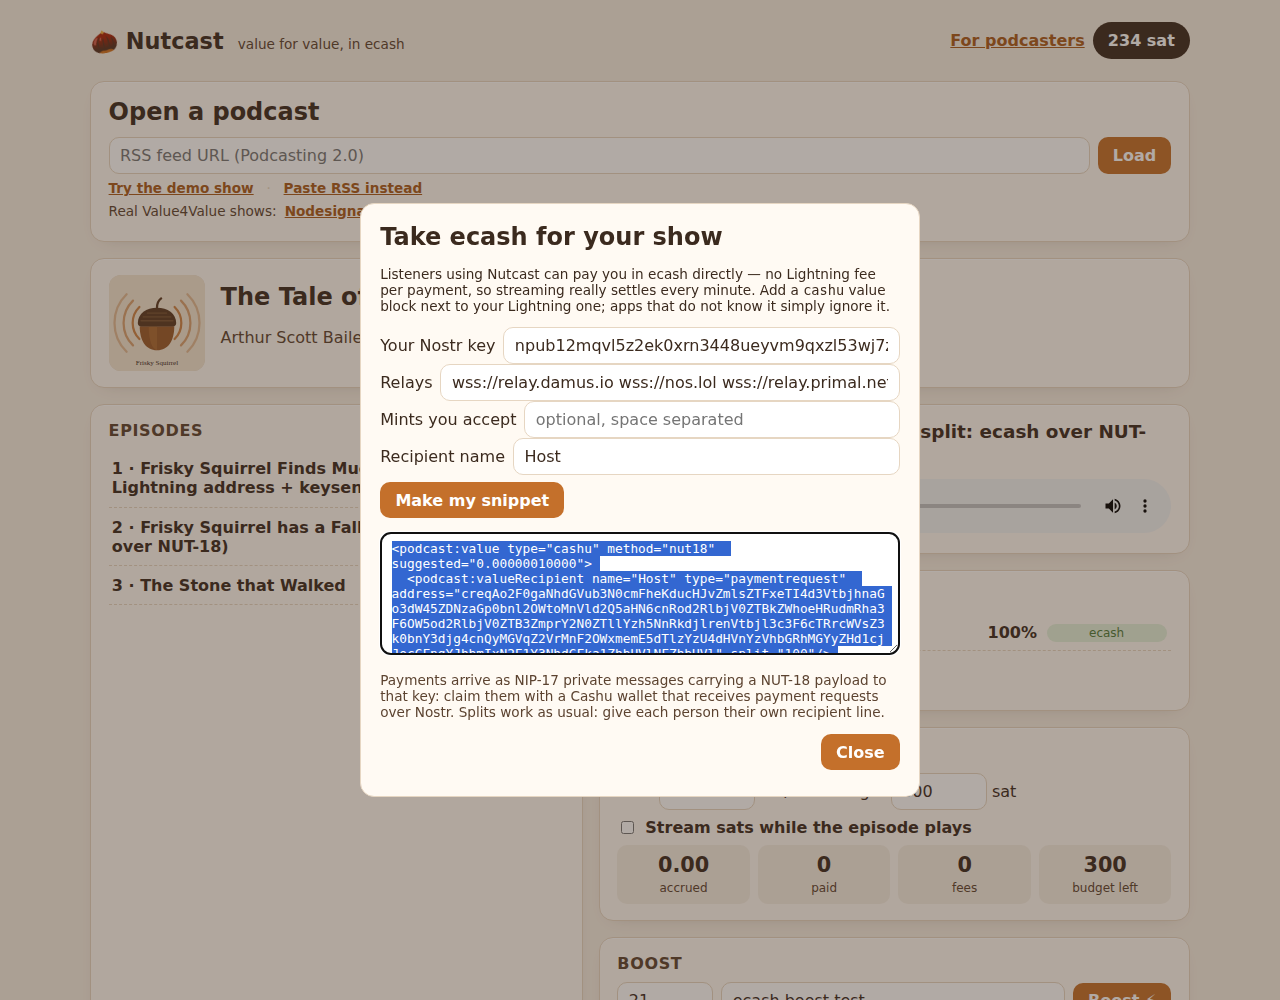
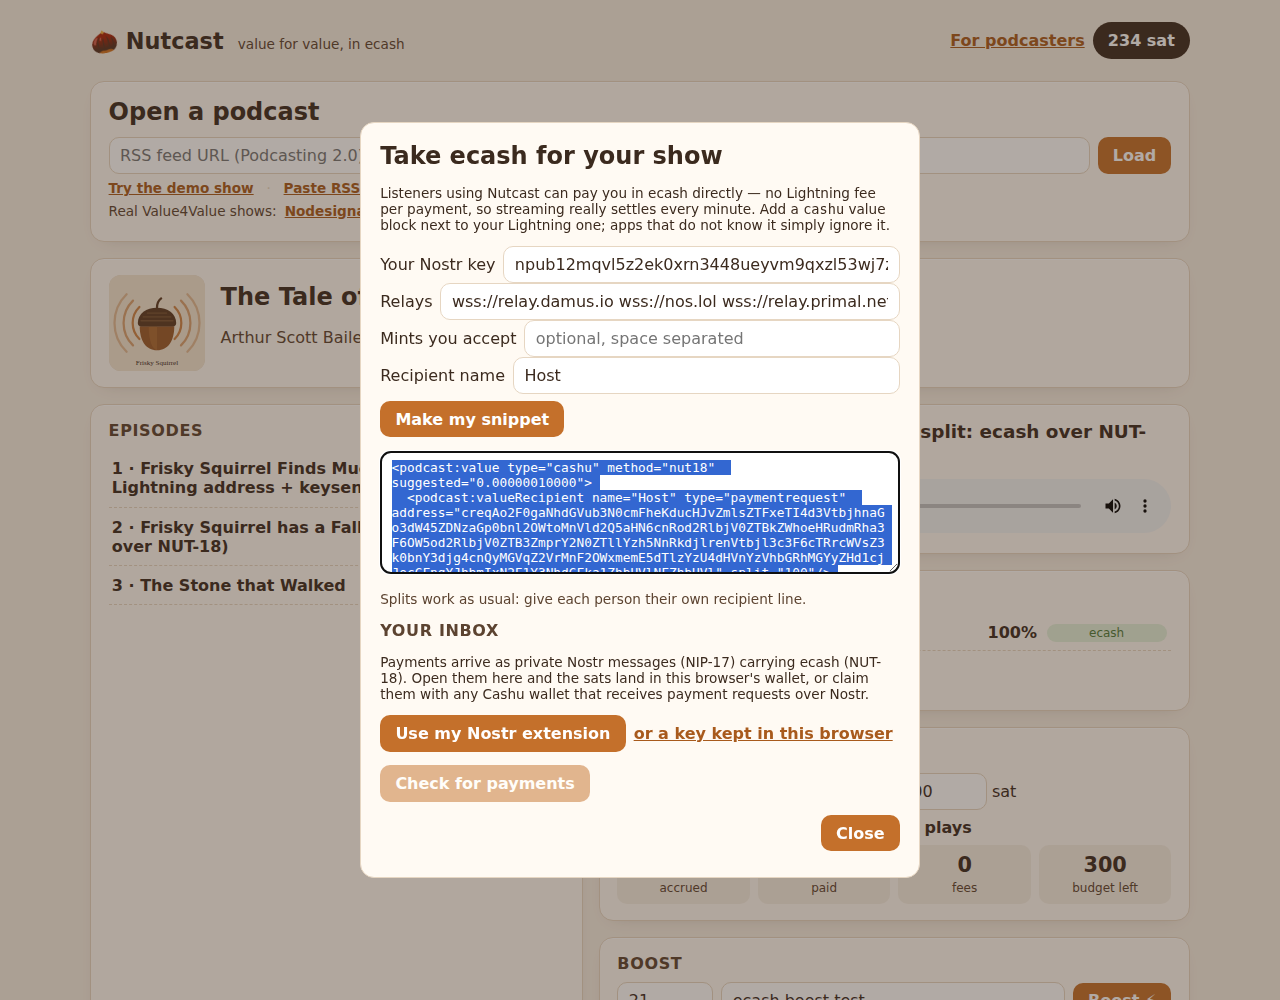
Podcaster inbox: open NIP-17 gift wraps carrying NUT-18 ecash and receive them in the page (NIP-07 or a local key); headless check of the full loop

Changed region(s): [[0.2812, 0.124, 0.7188, 0.899]]

diff --git a/src/core/inbox.ts b/src/core/inbox.ts
@@ -1,0 +1,98 @@
+// The receiving side of NUT-18 over Nostr: find NIP-17 gift wraps addressed to the podcaster,
+// open them (wrap -> seal -> rumor) and read the ecash payment inside.
+// Decryption goes through a Signer, so the key can stay in a NIP-07 extension.
+import { getEncodedToken, type Proof } from '@cashu/cashu-ts';
+import { SimplePool, generateSecretKey, getPublicKey, nip44, verifyEvent, type Event } from 'nostr-tools';
+import { FALLBACK_RELAYS } from './nostr';
+
+export interface Signer {
+  getPublicKey(): Promise<string>;
+  nip44Decrypt(peer: string, ciphertext: string): Promise<string>;
+}
+
+/** A key kept by the page itself (hex secret). */
+export function localSigner(skHex: string): Signer {
+  const sk = Uint8Array.from(skHex.match(/../g)!.map((h) => parseInt(h, 16)));
+  return {
+    getPublicKey: async () => getPublicKey(sk),
+    nip44Decrypt: async (peer, ct) => nip44.v2.decrypt(ct, nip44.v2.utils.getConversationKey(sk, peer)),
+  };
+}
+
+export function newLocalKey(): string {
+  return [...generateSecretKey()].map((b) => b.toString(16).padStart(2, '0')).join('');
+}
+
+interface Nip07 {
+  getPublicKey(): Promise<string>;
+  nip44?: { decrypt(peer: string, ciphertext: string): Promise<string> };
+}
+
+/** A NIP-07 browser extension (Alby, nos2x, …). It must support nip44. */
+export function extensionSigner(ext: Nip07 | undefined): Signer {
+  if (!ext) throw new Error('No Nostr extension found in this browser.');
+  if (!ext.nip44) throw new Error('Your Nostr extension cannot decrypt NIP-44 messages.');
+  return { getPublicKey: () => ext.getPublicKey(), nip44Decrypt: (p, c) => ext.nip44!.decrypt(p, c) };
+}
+
+export interface IncomingPayment {
+  wrapId: string;
+  at: number; // seconds, from the rumor (the wrap's own time is randomised)
+  sender: string; // the payer's per-payment key
+  mint: string;
+  unit: string;
+  memo?: string;
+  amount: number;
+  proofs: Proof[];
+  token: string; // cashuB… ready to receive
+}
+
+/** Open one gift wrap. Throws if it is not a valid NIP-17 message carrying a NUT-18 payload. */
+export async function openWrap(signer: Signer, wrap: Event): Promise<IncomingPayment> {
+  if (wrap.kind !== 1059) throw new Error('not a gift wrap');
+  const seal = JSON.parse(await signer.nip44Decrypt(wrap.pubkey, wrap.content)) as Event;
+  if (seal.kind !== 13 || !verifyEvent(seal)) throw new Error('bad seal');
+  const rumor = JSON.parse(await signer.nip44Decrypt(seal.pubkey, seal.content));
+  if (rumor.kind !== 14 || rumor.pubkey !== seal.pubkey) throw new Error('bad rumor');
+  const p = JSON.parse(rumor.content);
+  if (!p || typeof p.mint !== 'string' || !Array.isArray(p.proofs) || !p.proofs.length) throw new Error('not an ecash payment');
+  const unit = typeof p.unit === 'string' ? p.unit : 'sat';
+  const memo = typeof p.memo === 'string' ? p.memo : undefined;
+  const proofs = p.proofs as Proof[];
+  return {
+    wrapId: wrap.id,
+    at: Number(rumor.created_at) || wrap.created_at,
+    sender: seal.pubkey,
+    mint: p.mint.replace(/\/+$/, ''),
+    unit,
+    memo,
+    amount: proofs.reduce((s, x) => s + Number(x.amount), 0),
+    proofs,
+    token: getEncodedToken({ mint: p.mint, proofs, unit, memo }),
+  };
+}
+
+/** Fetch gift wraps for the signer's key from `relays` and open those that are ecash payments. */
+export async function fetchPayments(signer: Signer, relays: string[] = FALLBACK_RELAYS, sinceDays = 14): Promise<IncomingPayment[]> {
+  const pk = await signer.getPublicKey();
+  const pool = new SimplePool();
+  try {
+    // NIP-59 randomises the wrap's created_at up to two days into the past, so look back a little further.
+    const since = Math.floor(Date.now() / 1000) - (sinceDays + 2) * 86400;
+    const events = await pool.querySync(relays, { kinds: [1059], '#p': [pk], since }, { maxWait: 6000 });
+    const seen = new Set<string>();
+    const out: IncomingPayment[] = [];
+    for (const e of events) {
+      if (seen.has(e.id)) continue;
+      seen.add(e.id);
+      try {
+        out.push(await openWrap(signer, e));
+      } catch {
+        /* someone else's chat message, or junk: skip */
+      }
+    }
+    return out.sort((a, b) => b.at - a.at);
+  } finally {
+    pool.close(relays);
+  }
+}

diff --git a/src/main.ts b/src/main.ts
@@ -5,6 +5,7 @@ import { walletPayer } from './core/payer';
 import { boost, Streamer, type Settlement } from './core/stream';
 import { chooseBlock, parseFeed, payable, splitAmount, type Episode, type Feed, type ValueBlock } from './core/value';
 import { DEMO_MINT, EcashWallet, type Store } from './core/wallet';
+import { extensionSigner, fetchPayments, localSigner, newLocalKey, type Signer } from './core/inbox';
 
 const $ = <T extends HTMLElement = HTMLElement>(id: string) => document.getElementById(id) as T;
 const store: Store = { get: (k) => localStorage.getItem(k), set: (k, v) => localStorage.setItem(k, v) };
@@ -337,6 +338,74 @@ $('crMake').onclick = () => {
     out.select();
   } catch (e) {
     err.textContent = (e as Error).message;
+  }
+};
+
+// ---------- inbox: ecash paid to the podcaster's request ----------
+let signer: Signer | undefined;
+async function useSigner(sg: Signer, who: string) {
+  signer = sg;
+  const pk = await sg.getPublicKey();
+  ($('crNpub') as HTMLInputElement).value = nip19.npubEncode(pk);
+  $('inWho').textContent = who;
+  ($('inCheck') as HTMLButtonElement).disabled = false;
+}
+$('inExt').onclick = async () => {
+  try {
+    await useSigner(extensionSigner((window as unknown as { nostr?: Parameters<typeof extensionSigner>[0] }).nostr), 'Using your Nostr extension. The key never leaves it.');
+  } catch (e) {
+    $('inWho').textContent = (e as Error).message;
+  }
+};
+$('inLocal').onclick = async () => {
+  let sk = localStorage.getItem('nutcast:inboxKey');
+  if (!sk) localStorage.setItem('nutcast:inboxKey', (sk = newLocalKey()));
+  await useSigner(localSigner(sk), 'Using a key kept in this browser (good for trying; clearing site data loses it, so take your sats out first).');
+};
+const doneKey = 'nutcast:inboxDone';
+const done = new Set<string>(JSON.parse(localStorage.getItem(doneKey) ?? '[]'));
+$('inCheck').onclick = async () => {
+  if (!signer) return;
+  const btn = $('inCheck') as HTMLButtonElement;
+  btn.disabled = true;
+  $('inState').textContent = 'Asking relays…';
+  try {
+    const relays = ($('crRelays') as HTMLInputElement).value.split(/\s+/).filter((r) => /^wss?:\/\//.test(r));
+    const pays = await fetchPayments(signer, relays.length ? relays : undefined);
+    let got = 0;
+    for (const p of pays) {
+      let status: string;
+      let ok = true;
+      if (done.has(p.wrapId)) status = 'already received';
+      else {
+        try {
+          // ecash is received at the mint it came from; each mint has its own balance here
+          const w = p.mint === mintUrl ? wallet : new EcashWallet(p.mint, store);
+          const n = await w.receive(p.token);
+          got += p.mint === mintUrl ? n : 0;
+          status = `+${n} sat` + (p.mint === mintUrl ? '' : ` at ${new URL(p.mint).host}`);
+          done.add(p.wrapId);
+        } catch (e) {
+          ok = false;
+          const msg = (e as Error).message;
+          status = msg.slice(0, 80);
+          // spent proofs will never be received; anything else (network, mint down) is worth another try
+          if (/spent/i.test(msg)) done.add(p.wrapId);
+          else status += ' (will retry)';
+        }
+      }
+      $('inList').prepend(el('li', { className: ok ? 'ok' : 'bad' },
+        el('span', { textContent: new Date(p.at * 1000).toLocaleDateString() }),
+        el('span', { textContent: `${p.amount} sat${p.memo ? ' · ' + p.memo : ''}` }),
+        el('span', { textContent: status })));
+    }
+    localStorage.setItem(doneKey, JSON.stringify([...done]));
+    $('inState').textContent = pays.length ? `${pays.length} payment(s) found.` + (got ? ` ${got} sat added to your wallet.` : '') : 'No payments yet.';
+    refreshBalance();
+  } catch (e) {
+    $('inState').textContent = (e as Error).message;
+  } finally {
+    btn.disabled = false;
   }
 };
 

diff --git a/test/inbox.test.ts b/test/inbox.test.ts
@@ -1,0 +1,34 @@
+import { describe, expect, it } from 'vitest';
+import { generateSecretKey, getPublicKey, nip17 } from 'nostr-tools';
+import { localSigner, newLocalKey, openWrap } from '../src/core/inbox';
+
+const proofs = [
+  { id: '009a1f293253e41e', amount: 16, secret: 's1', C: '02' + 'a'.repeat(64) },
+  { id: '009a1f293253e41e', amount: 4, secret: 's2', C: '02' + 'b'.repeat(64) },
+];
+
+describe('inbox', () => {
+  const skHex = newLocalKey();
+  const signer = localSigner(skHex);
+
+  it('opens a NUT-18 payment sent as a NIP-17 message', async () => {
+    const pk = await signer.getPublicKey();
+    const payer = generateSecretKey();
+    const payload = JSON.stringify({ id: 'r1', memo: 'great show', mint: 'https://testnut.cashu.space/', unit: 'sat', proofs });
+    const wrap = nip17.wrapEvent(payer, { publicKey: pk }, payload);
+    const got = await openWrap(signer, wrap);
+    expect(got.amount).toBe(20);
+    expect(got.memo).toBe('great show');
+    expect(got.mint).toBe('https://testnut.cashu.space');
+    expect(got.sender).toBe(getPublicKey(payer));
+    expect(got.token).toMatch(/^cashuB/);
+  });
+
+  it('skips chat messages and wraps for someone else', async () => {
+    const pk = await signer.getPublicKey();
+    const chat = nip17.wrapEvent(generateSecretKey(), { publicKey: pk }, 'hello there');
+    await expect(openWrap(signer, chat)).rejects.toThrow();
+    const other = nip17.wrapEvent(generateSecretKey(), { publicKey: getPublicKey(generateSecretKey()) }, JSON.stringify({ mint: 'https://m', proofs }));
+    await expect(openWrap(signer, other)).rejects.toThrow();
+  });
+});

diff --git a/index.html b/index.html
@@ -134,8 +134,16 @@
       <div class="row"><button id="crMake" type="button">Make my snippet</button></div>
       <p id="crErr" class="error small"></p>
       <textarea id="crOut" rows="7" readonly class="hidden"></textarea>
-      <p class="muted small">Payments arrive as NIP-17 private messages carrying a NUT-18 payload to that key: claim them with a Cashu wallet that receives payment requests over Nostr.
-        Splits work as usual: give each person their own recipient line.</p>
+      <p class="muted small">Splits work as usual: give each person their own recipient line.</p>
+
+      <h3>Your inbox</h3>
+      <p class="small">Payments arrive as private Nostr messages (NIP-17) carrying ecash (NUT-18). Open them here and the sats land in this browser's wallet,
+        or claim them with any Cashu wallet that receives payment requests over Nostr.</p>
+      <div class="row"><button id="inExt" type="button">Use my Nostr extension</button>
+        <button id="inLocal" type="button" class="link">or a key kept in this browser</button></div>
+      <p id="inWho" class="small muted"></p>
+      <div class="row"><button id="inCheck" type="button" disabled>Check for payments</button> <span id="inState" class="small muted"></span></div>
+      <ul id="inList" class="history"></ul>
       <div class="row end"><button value="close">Close</button></div>
     </form>
   </dialog>
